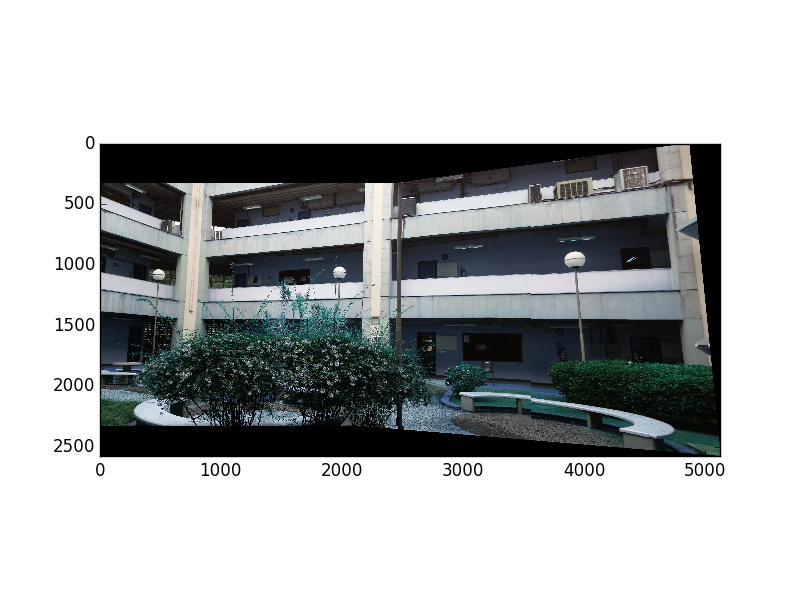
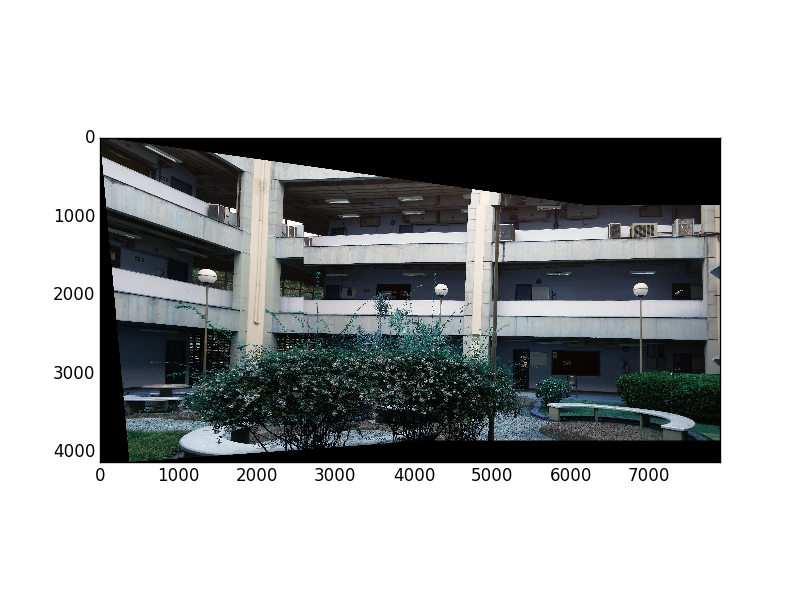
orb

diff --git a/tp2.py b/tp2.py
@@ -2,20 +2,15 @@
 import cv2
 import numpy as np
 import math
-import os
-from itertools import combinations
-import glob
-import threading
-import time
 import matplotlib.pyplot as plt
 
-MAX_HEIGHT = 2000.00
+MAX_HEIGHT = 1000.00
 
 SIFT_SIFT = 0
 FAST_BRIEF = 1
 ORB_ORB = 2
 
-CURRENT_METHOD = SIFT_SIFT
+CURRENT_METHOD = 2
 
 IMG_COUNT = 6
 IMG_PREFIX = 'img'
@@ -106,21 +101,32 @@ class Method:
         self._method = -1
         self._detector = None
         self._matcher = None
+        self._extractor = None
 
     def set(self, method=SIFT_SIFT):
         self._method = method
         print method
+
+        if method == FAST_BRIEF:
+            self._detector = cv2.FastFeatureDetector(70)
+            self._extractor = cv2.DescriptorExtractor_create("BRIEF")
+            self._matcher = cv2.BFMatcher(cv2.NORM_HAMMING, crossCheck=True)
+
         if method == SIFT_SIFT:
-            self._detector = cv2.xfeatures2d.SIFT_create()
-            index_params = dict(algorithm=FLANN_INDEX_KDTREE, trees=5)
-            search_params = dict(checks=64)
+            self._detector = cv2.SIFT()
             # Faster than brute force, considering that sift is a very expensive detector
-            self._matcher = cv2.BFMatcher()#cv2.FlannBasedMatcher(index_params, search_params)
-        else:
-            if method == ORB_ORB:
-                self._detector = cv2.ORB_create()
-                # HAMMING because orb create a set binary descriptors
-                self._matcher = cv2.BFMatcher(cv2.NORM_HAMMING, crossCheck=True)
+            # index_params = dict(algorithm=FLANN_INDEX_KDTREE, trees=5)
+            # search_params = dict(checks=64)
+            # cv2.FlannBasedMatcher(index_params, search_params)
+            self._matcher = cv2.BFMatcher()
+
+        if method == ORB_ORB:
+            self._detector = cv2.ORB()
+            # HAMMING because orb create a set binary descriptors
+            self._matcher = cv2.BFMatcher(cv2.NORM_HAMMING, crossCheck=True)
+
+    def get_extractor(self):
+        return self._extractor
 
     def get_detector(self):
         return self._detector
@@ -148,9 +154,10 @@ class ImageBlock:
 
         h, w = self._image.shape[:2]
 
-        if h > MAX_HEIGHT:
-            scale = MAX_HEIGHT / h
-            self._image = cv2.resize(self._image, None, fx=scale, fy=scale)
+        if (Method().get_method() == SIFT_SIFT) or (Method().get_method() == FAST_BRIEF):
+            if h > MAX_HEIGHT:
+                scale = MAX_HEIGHT / h
+                self._image = cv2.resize(self._image, None, fx=scale, fy=scale)
 
     def get_image(self):
         return self._image
@@ -186,7 +193,10 @@ class ImageBlock:
         print "detect " + self.get_path()
         kp = detector.detect(gray, mask)
         print "compute " + self.get_path()
-        (kp, desc) = detector.compute(gray, kp, mask)
+        if Method().get_method() == FAST_BRIEF:
+            (kp, desc) = Method().get_extractor().compute(gray, kp, mask)
+        else:
+            (kp, desc) = detector.compute(gray, kp, mask)
         self._keypoints = kp
         self._descriptors = desc
 
@@ -203,7 +213,12 @@ class ImageBlock:
                 if m.distance < threshold * n.distance:
                     good.append(m)
         else:
-            good = matches[:20]
+            print 'Sorting'
+            matches = sorted(matches, key=lambda x: x.distance)
+            # for match in matches:
+            #     print match.distance
+            good = matches[:10]
+            print 'finished sort'
 
         return good
 
@@ -241,7 +256,7 @@ class Mosaic:
         matches = center_block.match(target)
         homography = center_block.get_homography(target, matches)
         inv_homography = np.linalg.inv(homography)
-        (min_x, min_y, max_x, max_y) = findDimensions(target.get_image(), inv_homography)
+        (min_x, min_y, max_x, max_y) = get_dimensions(target.get_image(), inv_homography)
         # Adjust max_x and max_y by base img size
         max_x = max(max_x, center_block.get_image().shape[1])
         max_y = max(max_y, center_block.get_image().shape[0])
@@ -305,27 +320,28 @@ class Mosaic:
 
         # for b, t in img_combinations:
 
-        block34 = self.combine(block_list[2], block_list[3], 'img34.png')
-        block34.detect(left=3000)
+        block34 = self.combine(block_list[3], block_list[2], 'img34.png')
+        block34.detect(left=5000)
         block234 = self.combine(block34, block_list[1], 'img234.png')
         del block34
 
-        block234.detect(right=3000)
+        block234.detect(right=5000)
         block2345 = self.combine(block234, block_list[4], 'img2345.png')
         del block234
 
-        block2345.detect(left=3000)
-        block12345 = self.combine(block2345, block_list[0], 'img12345.png')
+        block2345.detect(right=5000)
+        block23456 = self.combine(block2345, block_list[5], 'img123456.png')
         del block2345
 
-        block12345.detect(right=3000)
-        block123456 = self.combine(block12345, block_list[5], 'img123456.png')
-        del block12345
+        block23456.detect(left=5000)
+        block123456 = self.combine(block23456, block_list[0], 'img12345.png')
+        del block23456
+
         show_image(block123456.get_image())
         del block123456
 
 
-def findDimensions(image, homography):
+def get_dimensions(image, homography):
     base_p1 = np.ones(3, np.float32)
     base_p2 = np.ones(3, np.float32)
     base_p3 = np.ones(3, np.float32)
@@ -351,22 +367,22 @@ def findDimensions(image, homography):
 
         normal_pt = np.array([hp_arr[0] / hp_arr[2], hp_arr[1] / hp_arr[2]], np.float32)
 
-        if ( max_x == None or normal_pt[0, 0] > max_x ):
+        if (max_x is None) or (normal_pt[0, 0] > max_x):
             max_x = normal_pt[0, 0]
 
-        if ( max_y == None or normal_pt[1, 0] > max_y ):
+        if (max_y is None) or (normal_pt[1, 0] > max_y):
             max_y = normal_pt[1, 0]
 
-        if ( min_x == None or normal_pt[0, 0] < min_x ):
+        if (min_x is None) or (normal_pt[0, 0] < min_x):
             min_x = normal_pt[0, 0]
 
-        if ( min_y == None or normal_pt[1, 0] < min_y ):
+        if (min_y is None) or (normal_pt[1, 0] < min_y):
             min_y = normal_pt[1, 0]
 
     min_x = min(0, min_x)
     min_y = min(0, min_y)
 
-    return (min_x, min_y, max_x, max_y)
+    return min_x, min_y, max_x, max_y
 
 
 if __name__ == "__main__":
